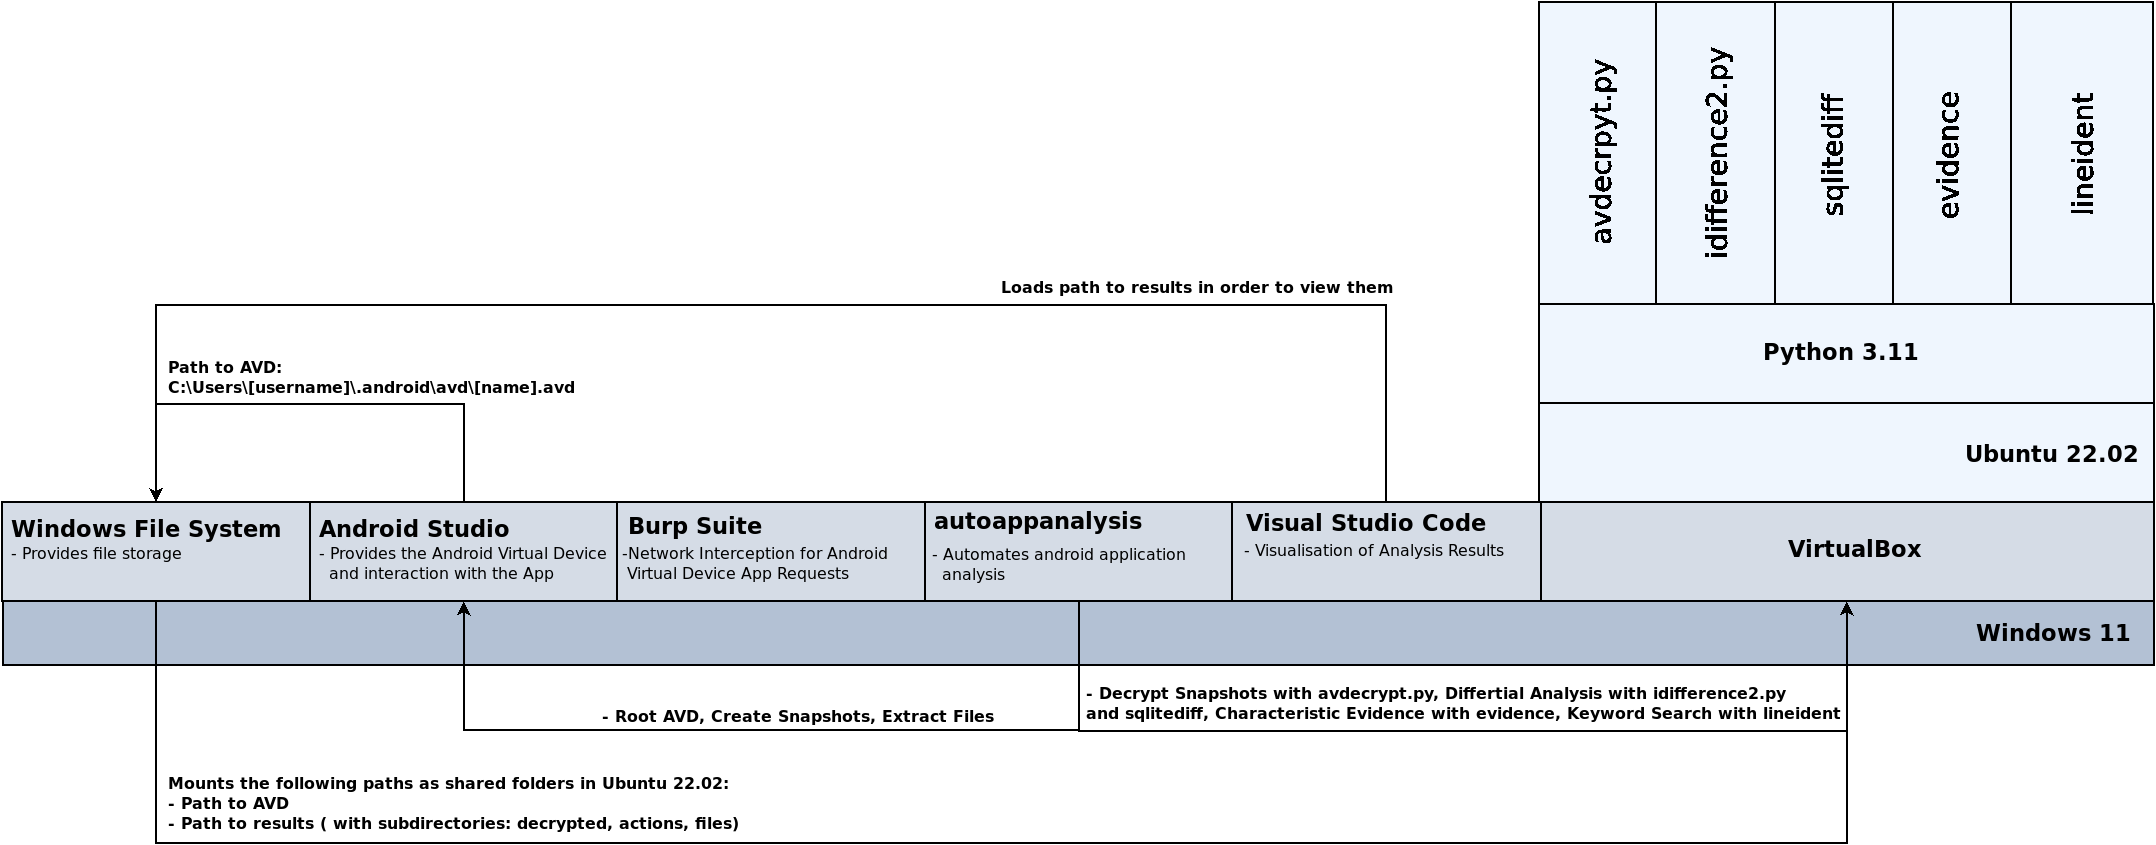
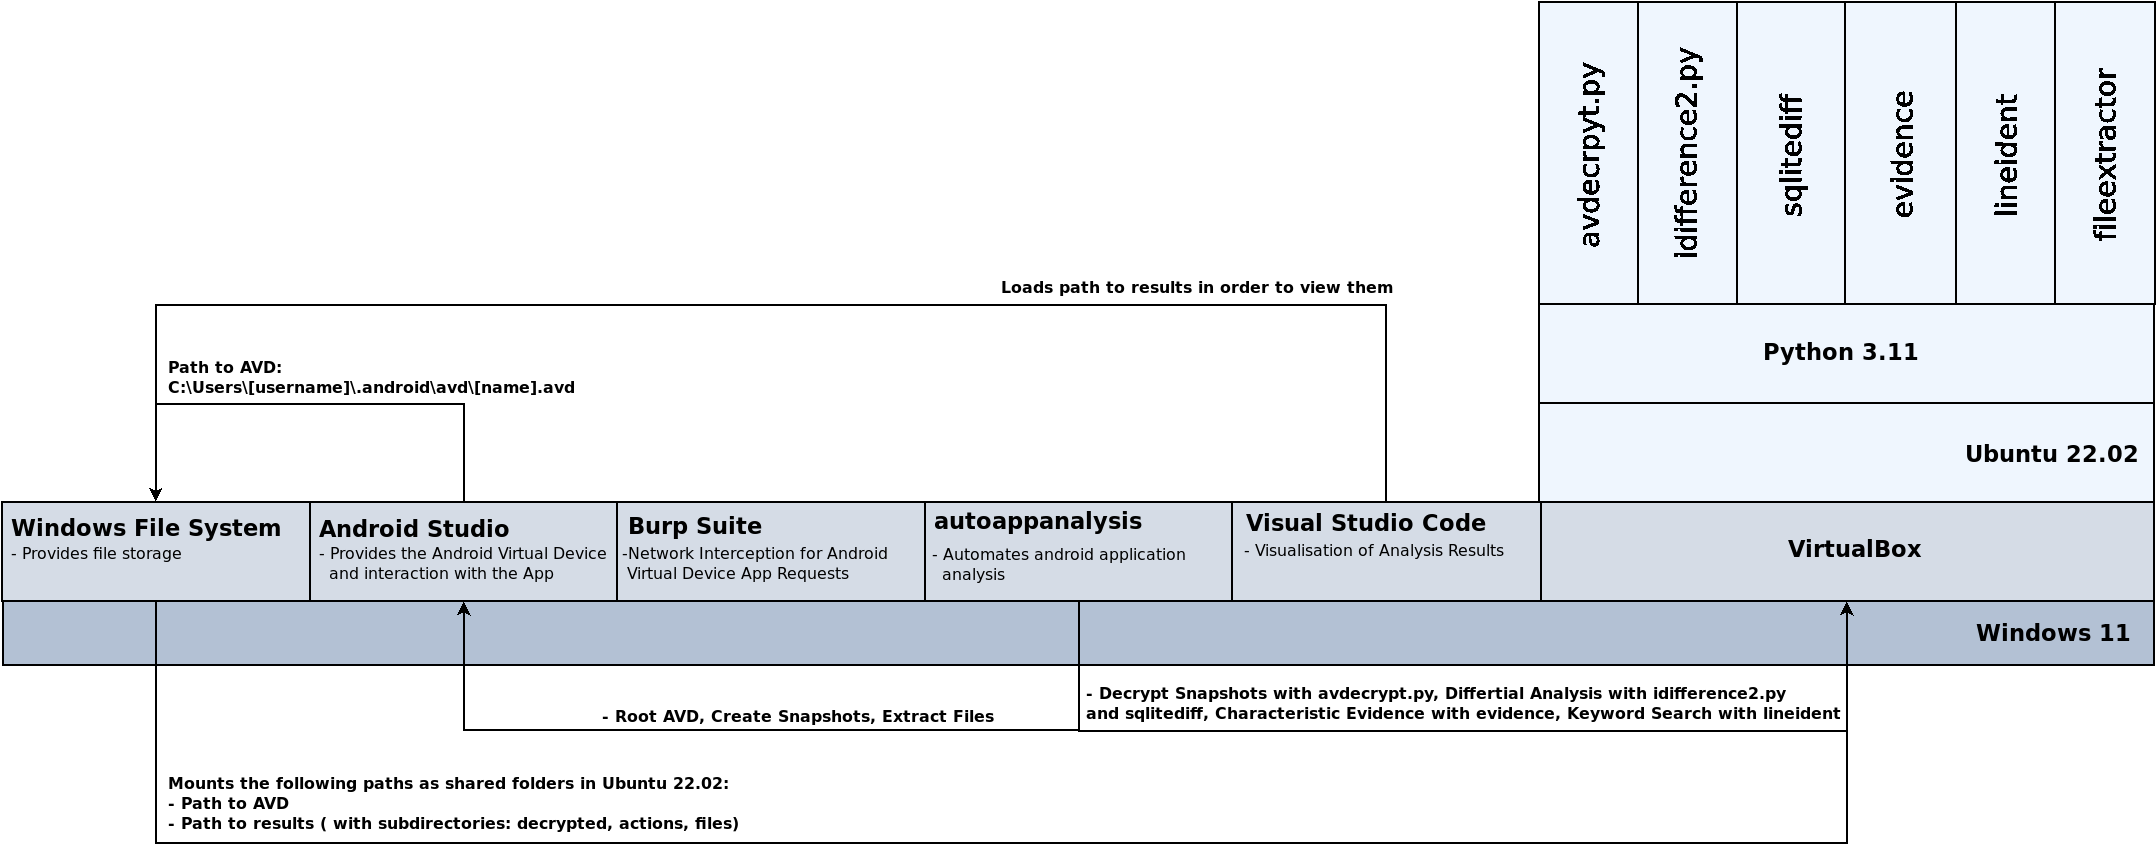
fileextractor added

Changed region(s): [[0.7147, 0.0, 1.0, 0.3692], [0.0, 0.6154, 0.1243, 0.6462]]

diff --git a/README.md b/README.md
@@ -13,6 +13,7 @@ Setup for Analysis of Android Applications
     - [VirtualBox](https://www.virtualbox.org/)
     - [Android Studio](https://developer.android.com/studio/)
     - [Burp Suite Community Edition](https://portswigger.net/burp/communitydownload)
+    - [Visual Studio Code](https://code.visualstudio.com/)
     - [autoappanalysis](https://github.com/5f0ne/autoappanalysis)
   
   <br>
@@ -31,7 +32,6 @@ Setup for Analysis of Android Applications
         - Contains a folder for each snapshot with extracted files 
       - Add subdirectory `actions`
         - Contains a folder for each action with analysis results
-
   
   <br>
 
@@ -52,6 +52,8 @@ Setup for Analysis of Android Applications
       - Differential analysis of sqlite files
     - [lineident](https://github.com/5f0ne/lineident)
       - Searches files line by line for given words
+    - [fileextractor](https://github.com/5f0ne/fileextractor)
+      - Extractes files from .raw files using sleuthkit
   - Setup:
     - In order to setup the VM correctly, follow the instructions of [app-analysis-setup](https://github.com/5f0ne/app-analysis-setup)
 
